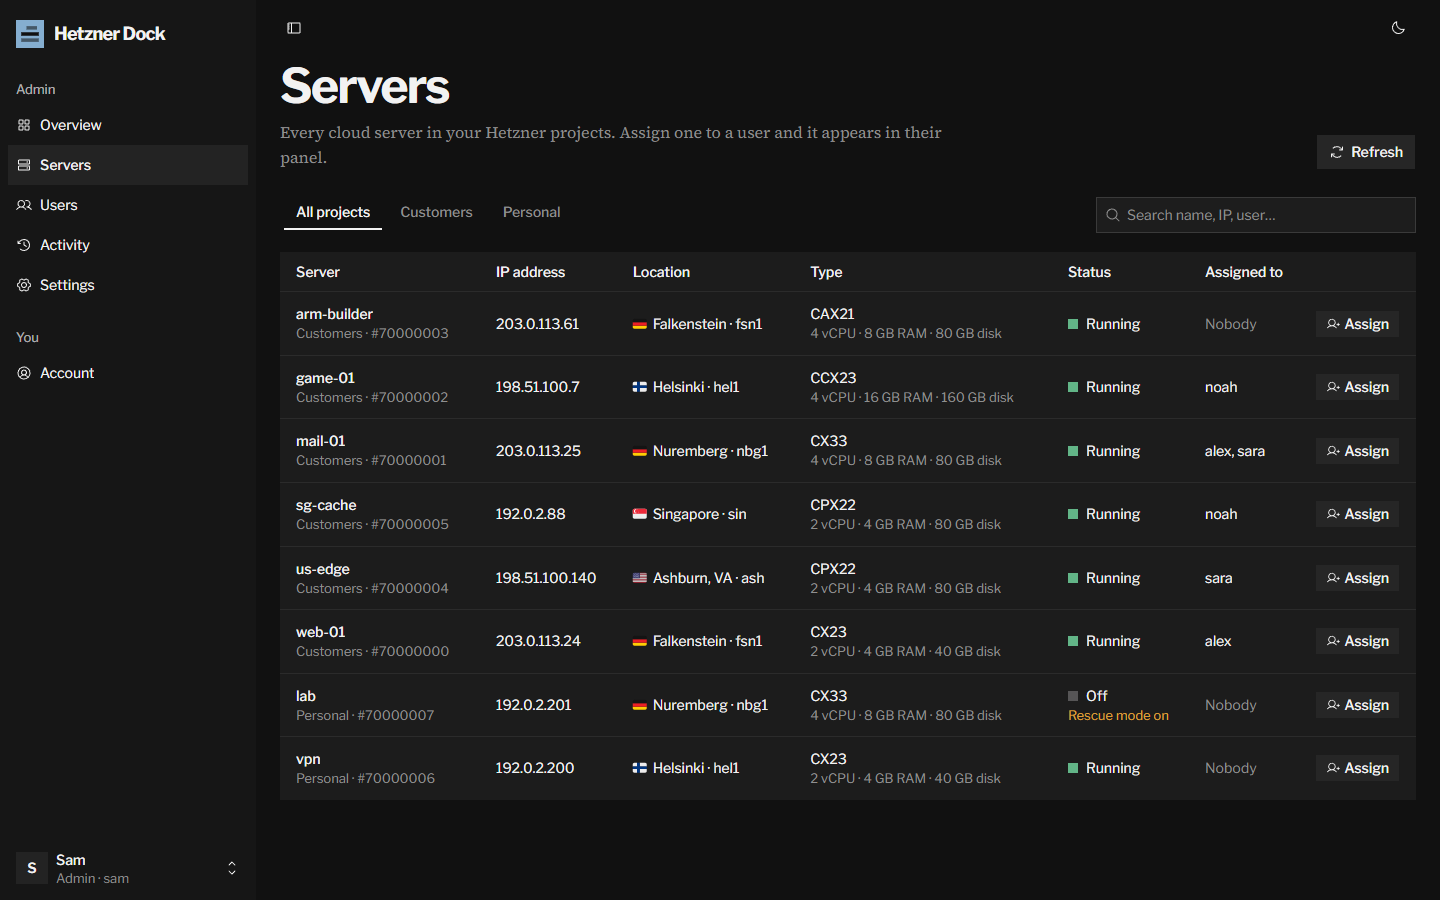
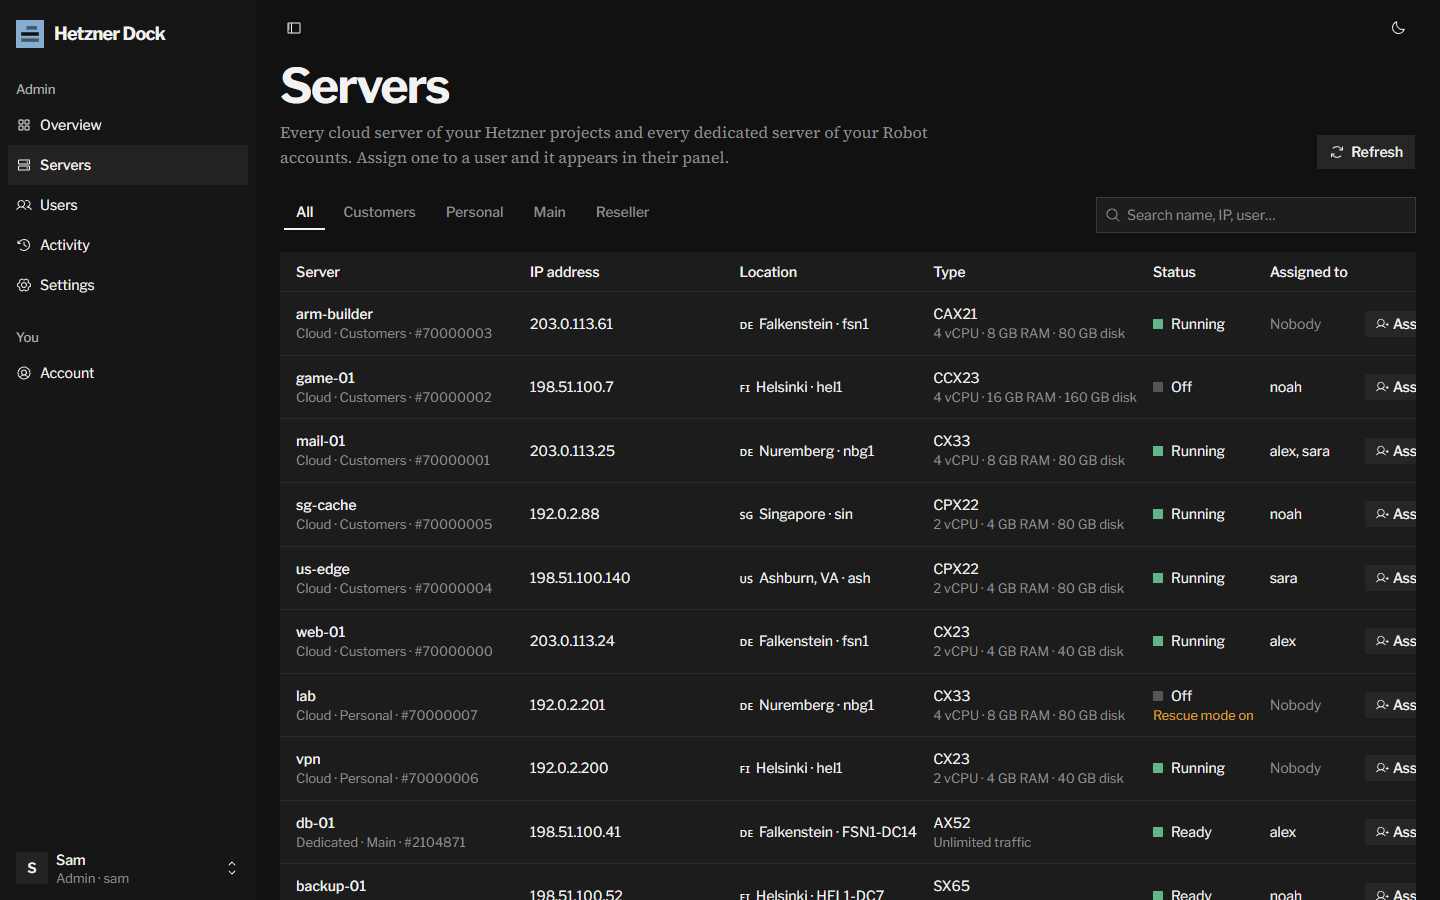
Refresh README screenshots for every kind of server
The screenshots predated dedicated servers, Storage Boxes and DNS zones.

- Updated: the overview (dark and light), the server list (light and
  dark), settings and a user's servers, which now show dedicated
  servers, Robot accounts, Storage Boxes and DNS zones.
- New: the dedicated server, Storage Box and DNS zone pages, and the
  DNS record list.
- The README's screenshot table gains two rows, with new alt text.

Captured at 1440x900 from the mock with the earlier staging (admin Sam,
users alex, sara and noah, the Customers and Personal projects, a SOCKS5h
proxy at 127.0.0.1:1080), plus two Robot accounts.

diff --git a/README.md b/README.md
@@ -162,8 +162,12 @@ They sign in at the same address and see only their own servers.
 
 | | |
 | :-: | :-: |
-| <img src="docs/screenshots/overview-dark.png" alt="Admin overview with server counts, the monthly cost, the API requests left this hour, recent activity and servers close to their included traffic" width="440"> | <img src="docs/screenshots/servers-light.png" alt="All servers from two Hetzner projects with country flags, server types, prices and who they are assigned to" width="440"> |
-| **Overview**: cost, traffic, API budget and activity | **Servers** from every project, with flags |
+| <img src="docs/screenshots/overview-dark.png" alt="Admin overview with counts of cloud and dedicated servers, Storage Boxes and DNS zones, the monthly cost, the API requests left this hour, recent activity and servers close to their included traffic" width="440"> | <img src="docs/screenshots/servers-light.png" alt="Cloud and dedicated servers from two Hetzner projects and two Robot accounts, with country flags, server types, states and who they are assigned to" width="440"> |
+| **Overview**: cost, traffic, API budget and activity | **Servers** from every project and Robot account, with flags |
+| <img src="docs/screenshots/dedicated-dark.png" alt="A dedicated server from Hetzner Robot: its state with reset and Wake on LAN buttons, a rescue boot waiting for the next start, and tabs to install Linux, boot the rescue system, set reverse DNS and see traffic" width="440"> | <img src="docs/screenshots/storage-dark.png" alt="A Storage Box 62 percent full, with the host and user to connect with, switches for SSH, Samba, WebDAV, the snapshot folder and access from outside Hetzner, and tabs for snapshots, sub-accounts and history" width="440"> |
+| **Dedicated servers** from Hetzner Robot | **Storage Boxes**: usage, access, snapshots |
+| <img src="docs/screenshots/dns-dark.png" alt="A DNS zone with Hetzner's three name servers, its delegation, 17 records and the form to add one" width="440"> | <img src="docs/screenshots/dns-records-dark.png" alt="DNS records of a zone: MX values with a comment, TXT, CAA and the zone's own NS records, each with its TTL" width="440"> |
+| **DNS zones**: name servers and delegation | **Records**, edited in place |
 | <img src="docs/screenshots/rebuild-dark.png" alt="Rebuild tab with operating systems, apps, snapshots and backups to choose from" width="440"> | <img src="docs/screenshots/history-dark.png" alt="A rebuild running at 31 percent on the History tab" width="440"> |
 | **Rebuild** from an image, app or snapshot | **History**: a rebuild in progress |
 | <img src="docs/screenshots/firewall-dark.png" alt="A firewall that protects only this server, with its incoming rules and an Edit rules button" width="440"> | <img src="docs/screenshots/settings-dark.png" alt="Settings with two Hetzner projects and a SOCKS5 proxy" width="440"> |
@@ -179,8 +183,8 @@ They sign in at the same address and see only their own servers.
 | **Network** and reverse DNS | **Graphs** |
 | <img src="docs/screenshots/snapshots-dark.png" alt="Two snapshots of a server with buttons to rebuild from them, rename and delete them" width="440"> | <img src="docs/screenshots/activity-dark.png" alt="Activity log with users, actions, servers and results" width="440"> |
 | **Snapshots** within the limit you set | **Activity log** |
-| <img src="docs/screenshots/my-servers-dark.png" alt="A user's list of their servers" width="440"> | <img src="docs/screenshots/login-dark.png" alt="Sign-in page" width="440"> |
-| **A user's servers** | **Sign in** |
+| <img src="docs/screenshots/my-servers-dark.png" alt="A user's list with two cloud servers, a dedicated server, a Storage Box and a DNS zone" width="440"> | <img src="docs/screenshots/login-dark.png" alt="Sign-in page" width="440"> |
+| **A user's servers** of every kind | **Sign in** |
 | <img src="docs/screenshots/overview-light.png" alt="Admin overview in the light theme" width="440"> | <img src="docs/screenshots/mobile-dark.png" alt="A server on a phone" width="200"> |
 | **Light theme** | **On a phone** |
 
